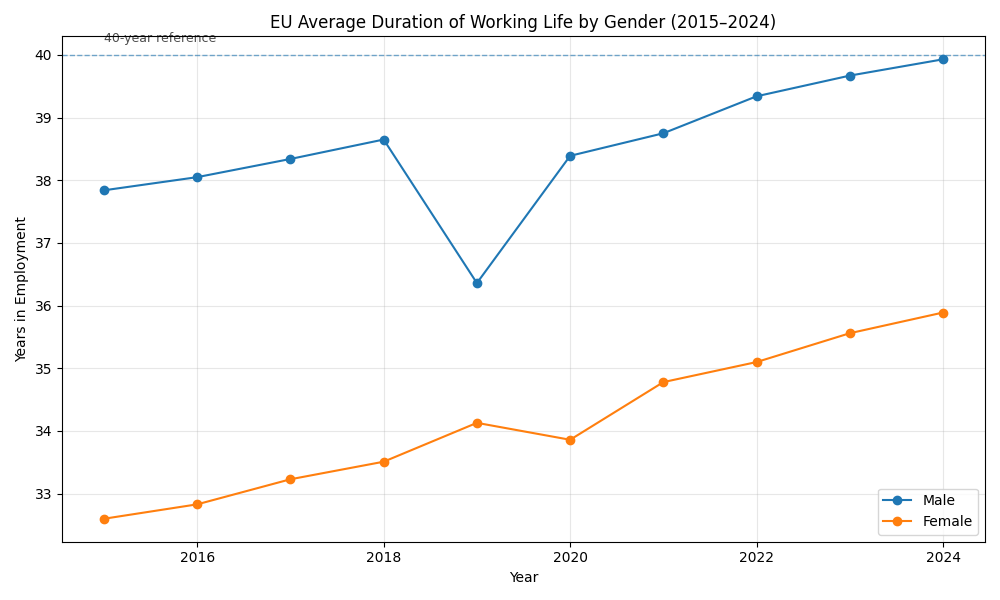
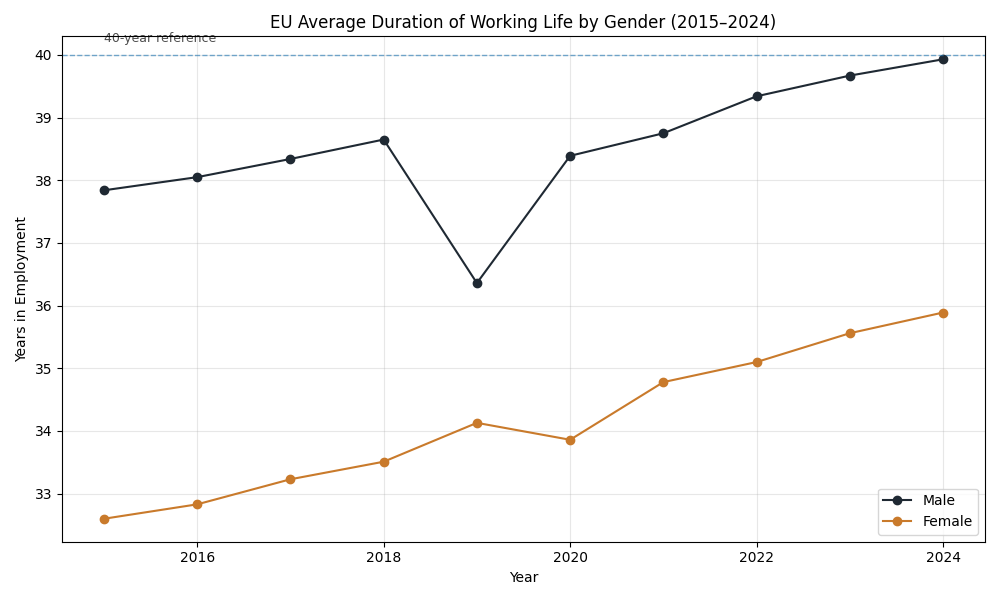
update charts theme color align with my website

diff --git a/07_visuals/age_compare.py b/07_visuals/age_compare.py
@@ -2,6 +2,8 @@ import matplotlib.pyplot as plt
 import pandas as pd
 import numpy as np
 
+ORANGE = "#C97A2B"
+DARK = "#1F2933"
 # -----------------------------
 # Data
 # -----------------------------
@@ -37,8 +39,8 @@ plt.figure(figsize=(18, 6))
 bar_width = 0.5
 
 colors = {
-    "Men": "#C47A00",      # muted amber
-    "Women": "#D14900"    # muted red-orange
+    "Men": DARK,      # muted amber
+    "Women": ORANGE    # muted red-orange
 }
 
 plt.bar(x_men, df["Men"], width=bar_width, color=colors["Men"])
@@ -53,6 +55,10 @@ all_labels = list(countries) + list(countries)
 plt.xticks(all_x, all_labels, rotation=45, ha="right")
 plt.ylabel("Statutory Retirement Age")
 plt.ylim(50, 75)
+plt.grid(alpha=0.3, axis="y")
+
+# Reference line at 70 years
+# plt.axhline(y=70, linestyle="--", linewidth=1, alpha=0.6)
 
 # -----------------------------
 # Section titles

diff --git a/07_visuals/EU_ave-line.py b/07_visuals/EU_ave-line.py
@@ -1,6 +1,9 @@
 import pandas as pd
 import matplotlib.pyplot as plt
 
+ORANGE = "#C97A2B"
+DARK = "#1F2933"
+
 # Create the dataframe directly
 data = [
     ["EU Average", 2015, "Male", 37.84],
@@ -33,8 +36,8 @@ female_df = df[df["Gender"] == "Female"]
 
 plt.figure(figsize=(10, 6))
 
-plt.plot(male_df["Year"], male_df["Duration"], marker="o", label="Male")
-plt.plot(female_df["Year"], female_df["Duration"], marker="o", label="Female")
+plt.plot(male_df["Year"], male_df["Duration"], marker="o", color=DARK, label="Male")
+plt.plot(female_df["Year"], female_df["Duration"], marker="o", color=ORANGE, label="Female")
 
 # Reference line at 40 years
 plt.axhline(y=40, linestyle="--", linewidth=1, alpha=0.6)

diff --git a/07_visuals/EU_compare_code.py b/07_visuals/EU_compare_code.py
@@ -1,6 +1,9 @@
 import pandas as pd
 import matplotlib.pyplot as plt
 
+ORANGE = "#C97A2B"
+DARK = "#1F2933"
+
 data = [
     ["Germany", 2015, "Male", 40.0], ["Germany", 2016, "Male", 40.2],
     ["Germany", 2017, "Male", 40.4], ["Germany", 2018, "Male", 40.7],
@@ -48,7 +51,7 @@ for i, country in enumerate(countries, 1):
 
     for gender in ["Male", "Female"]:
         gdata = subset[subset["Gender"] == gender]
-        plt.plot(gdata["Year"], gdata["Duration"], marker="o", label=gender)
+        plt.plot(gdata["Year"], gdata["Duration"], marker="o", color=DARK if gender == "Male" else ORANGE, label=gender)
 
     plt.axhline(40, linestyle="--", linewidth=1, alpha=0.5)
     plt.title(country)
